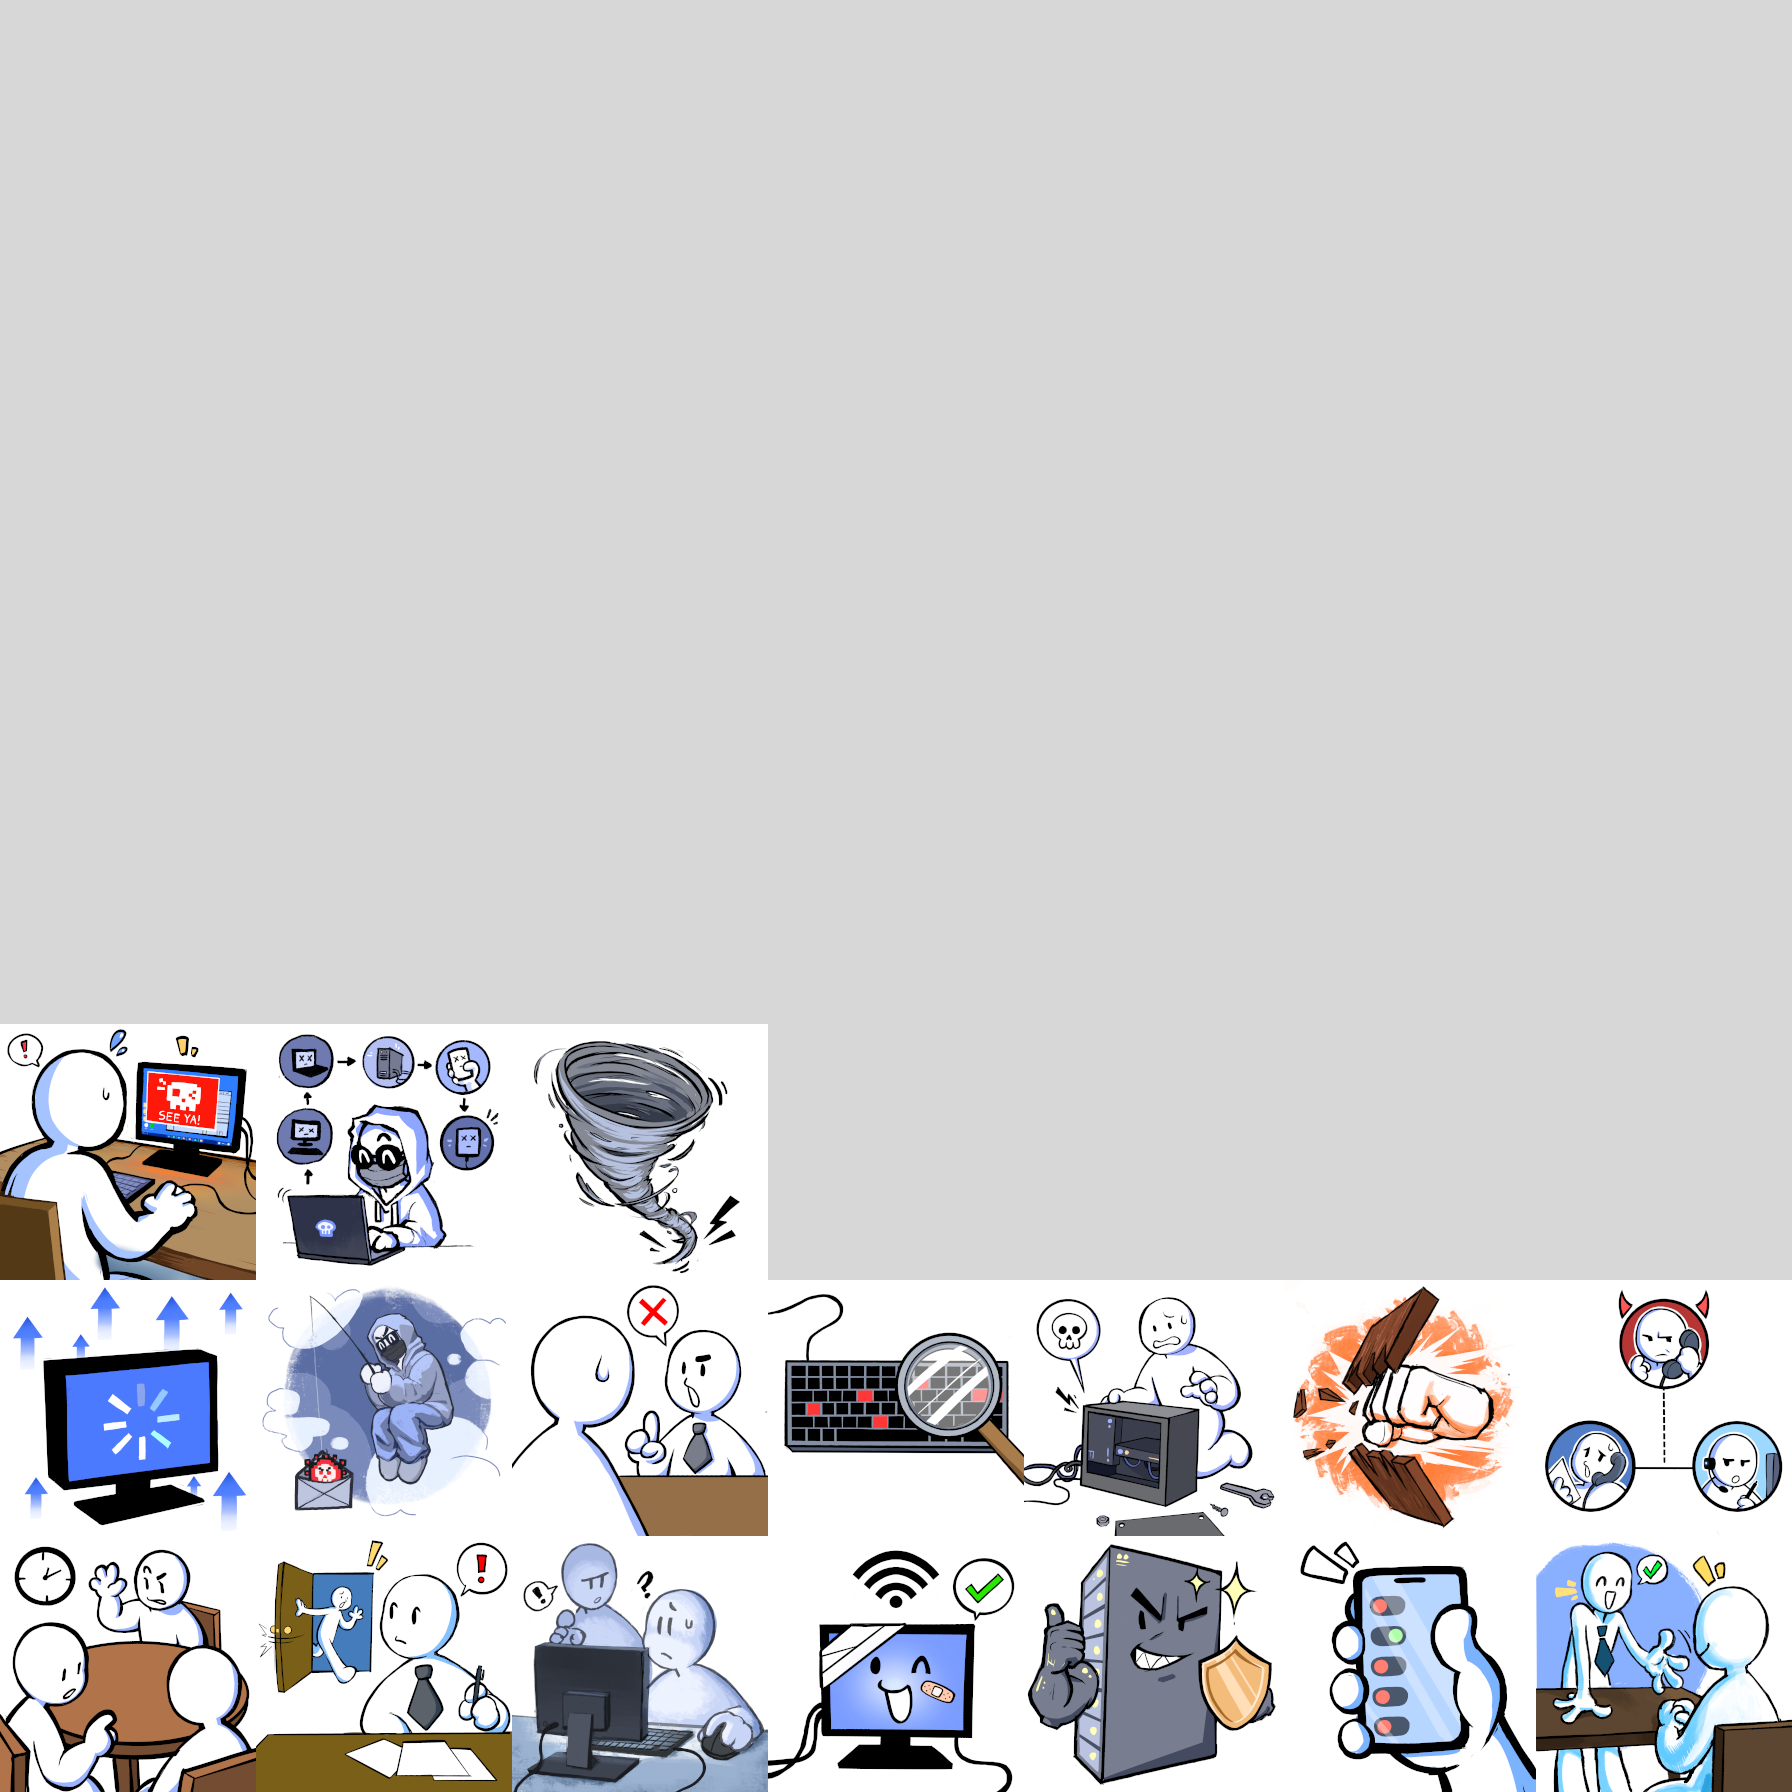
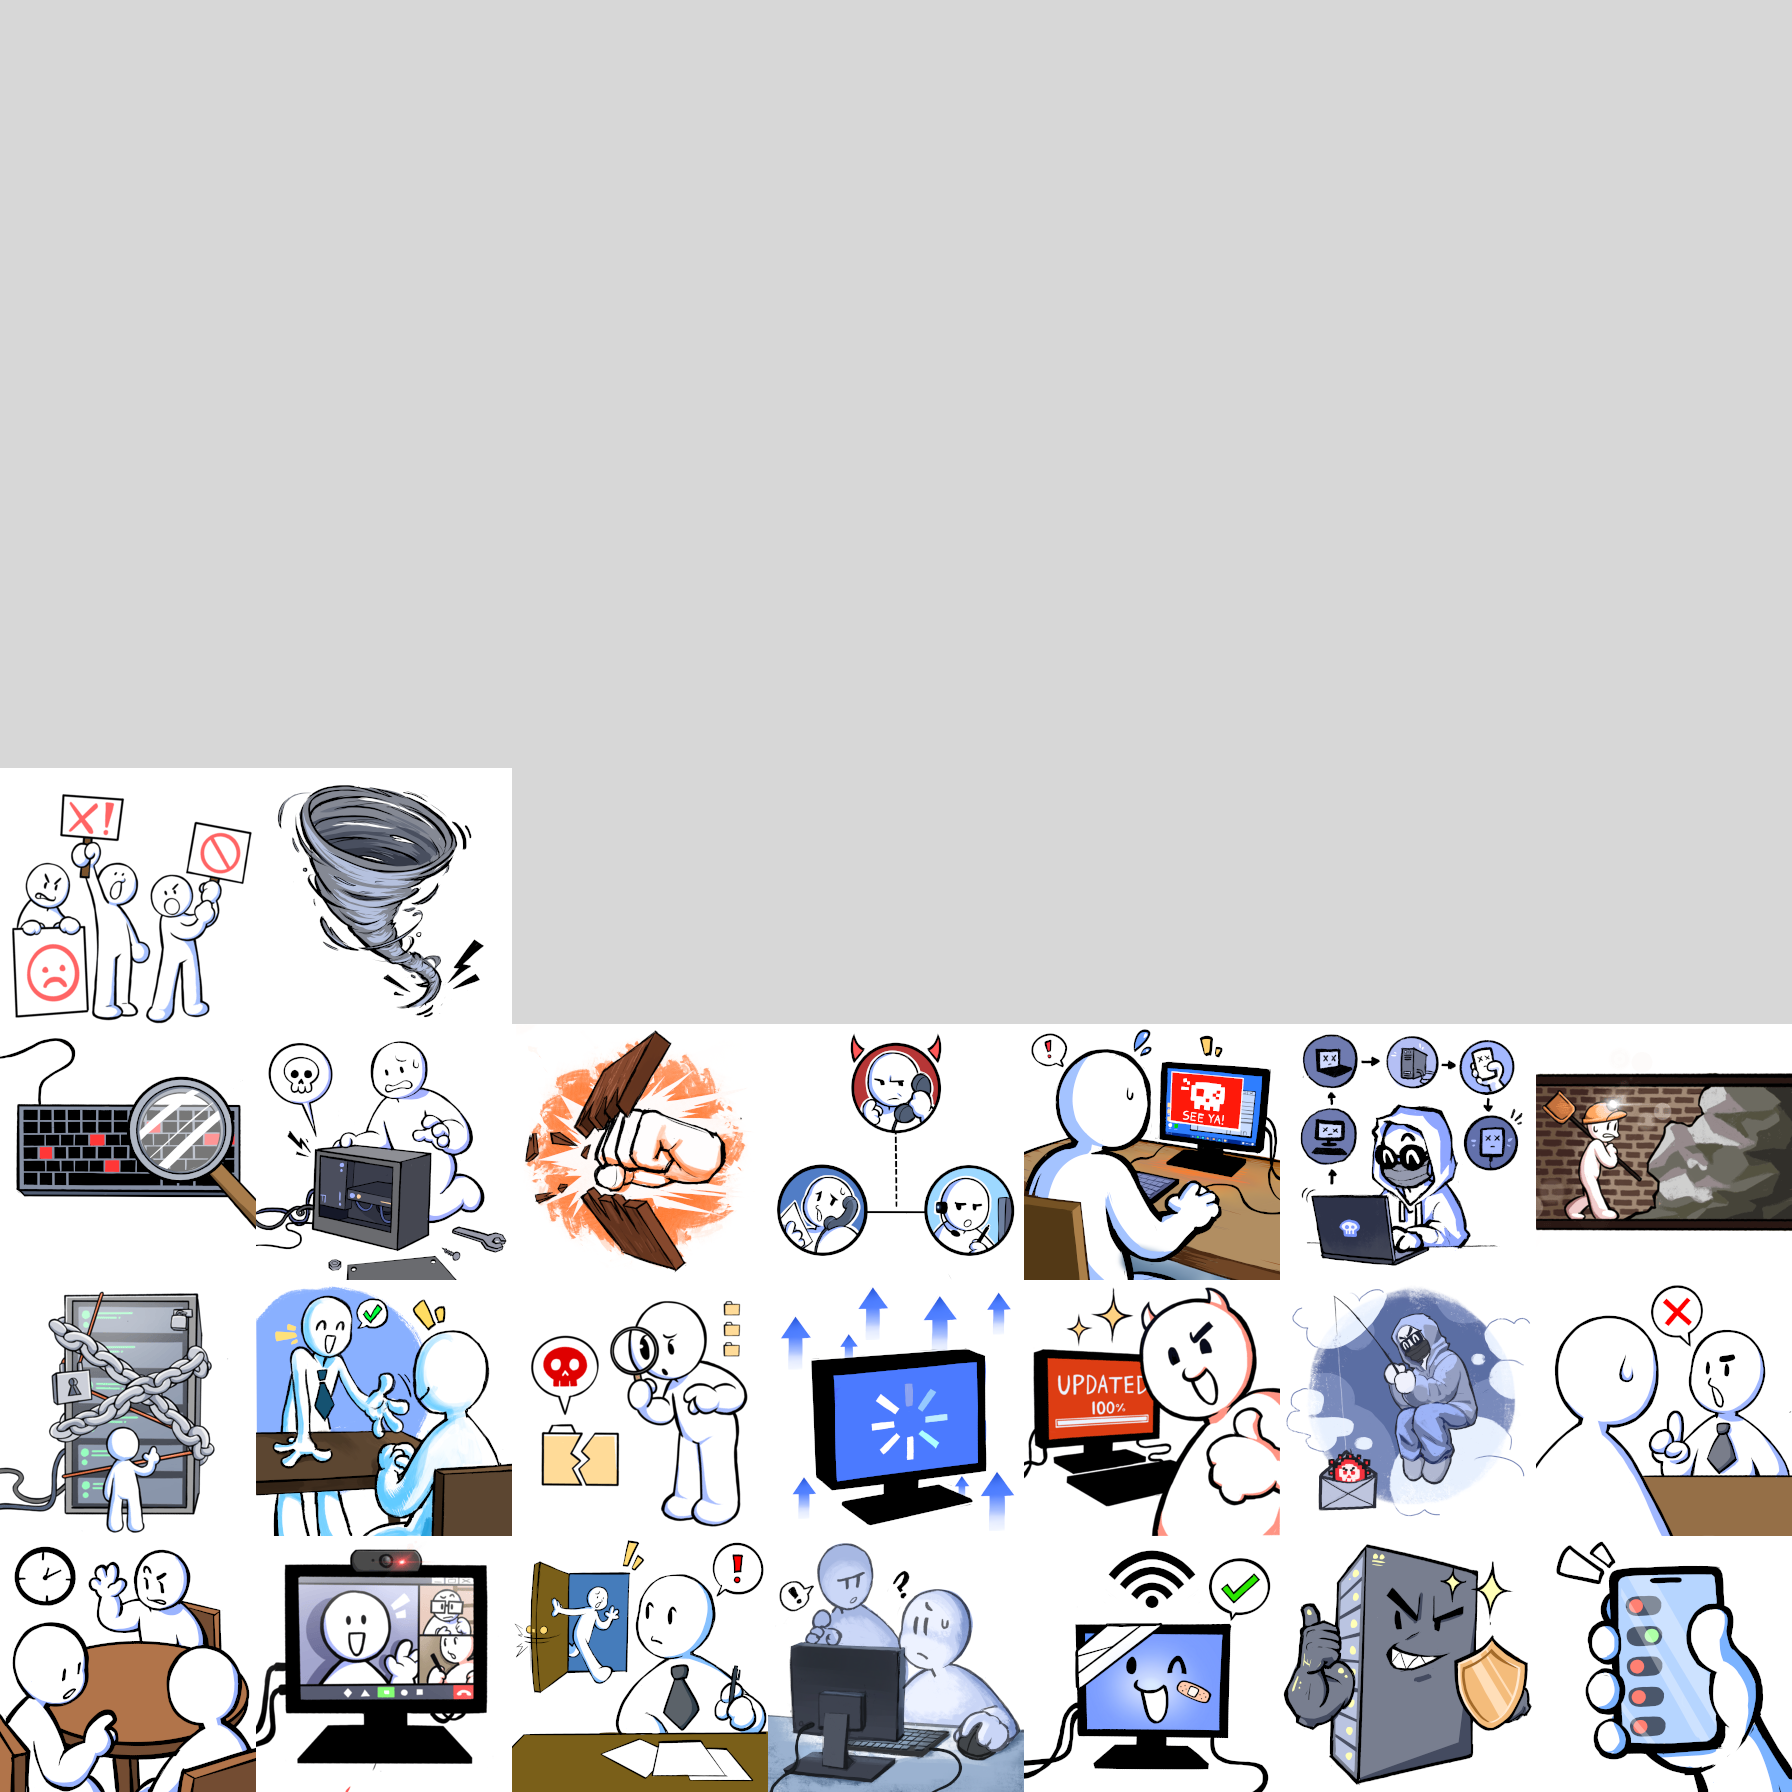
got the game to regenerate the atlas with updated pics

diff --git a/ResilienceGame/Assets/Cards/CardReader.cs b/ResilienceGame/Assets/Cards/CardReader.cs
@@ -58,8 +58,8 @@ public class CardReader : MonoBehaviour {
                     if (singleLineCSVObjects.Length > 1) // excel adds an empty line at the end
                     {
                         //Debug.Log("number of items in a line is: " + singleLineCSVObjects.Length);
-                        if (!singleLineCSVObjects[5].Equals(string.Empty) && !singleLineCSVObjects[5].Equals("")) {
-                            filenames.Add(singleLineCSVObjects[5].Trim());
+                        if (!singleLineCSVObjects[27].Equals(string.Empty) && !singleLineCSVObjects[27].Equals("")) {
+                            filenames.Add(singleLineCSVObjects[27].Trim());
                         }
                         else {
                             filenames.Add(string.Empty);
